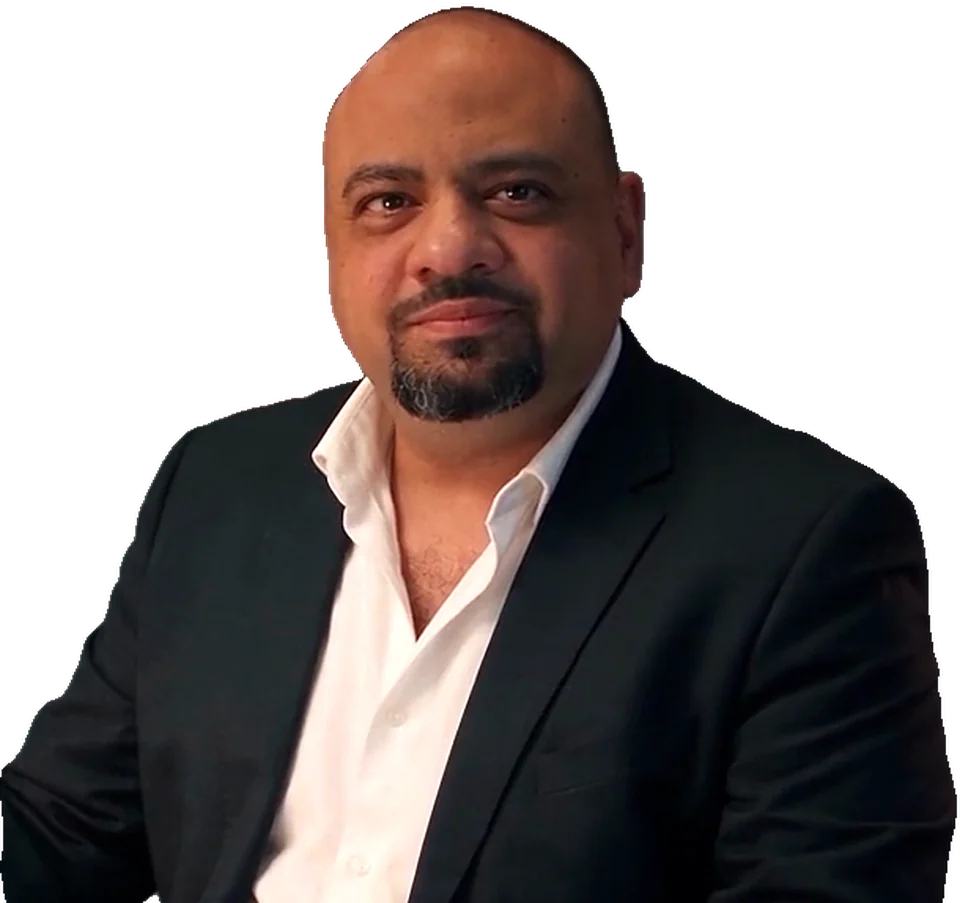
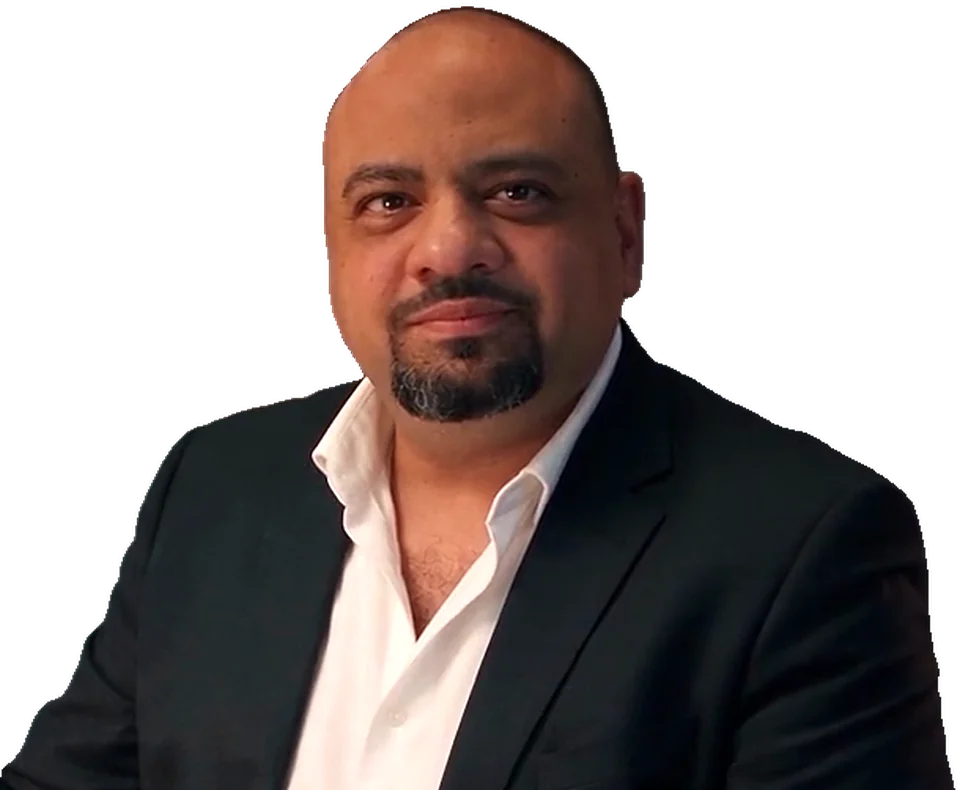
CTA-bilden beskärs vid bröstet
Tätare beskärning enligt Erfans exempel: huvud och axlar större, armen
nere till vänster borta.

diff --git a/components/home/CtaBanner.tsx b/components/home/CtaBanner.tsx
@@ -40,7 +40,7 @@ export function CtaBanner({ t }: { t: Dictionary }) {
         <div className="flex items-end justify-center px-[clamp(24px,3vw,48px)] pt-[clamp(40px,4vw,64px)]">
           {/* Bottenjusterad så figuren "står" i banderollens underkant.
               Bilden är sista rutan i herofilmen, där Ali tittar in i kameran,
-              frilagd och beskuren ovanför händerna (2026-11-21). Bildskärmen
+              frilagd och beskuren vid bröstet (2026-11-21). Bildskärmen
               i filmen skymmer hans vänstra arm, därför det raka snittet mot
               bildens vänsterkant. Studioporträttet ali-portratt.webp finns
               kvar för artiklarnas författarruta. */}
@@ -48,7 +48,7 @@ export function CtaBanner({ t }: { t: Dictionary }) {
             src="/assets/ali-leende.webp"
             alt={t.banner.portraitAlt}
             width={960}
-            height={903}
+            height={790}
             loading="lazy"
             className="block h-auto w-[min(460px,92%)] [filter:drop-shadow(0_18px_40px_rgba(28,15,5,.35))]"
           />
